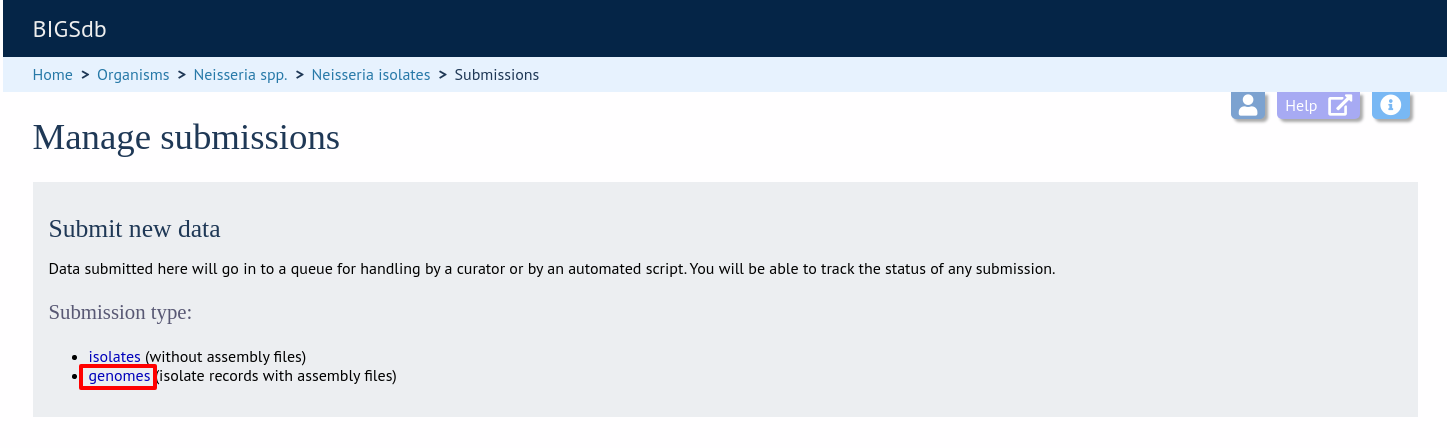
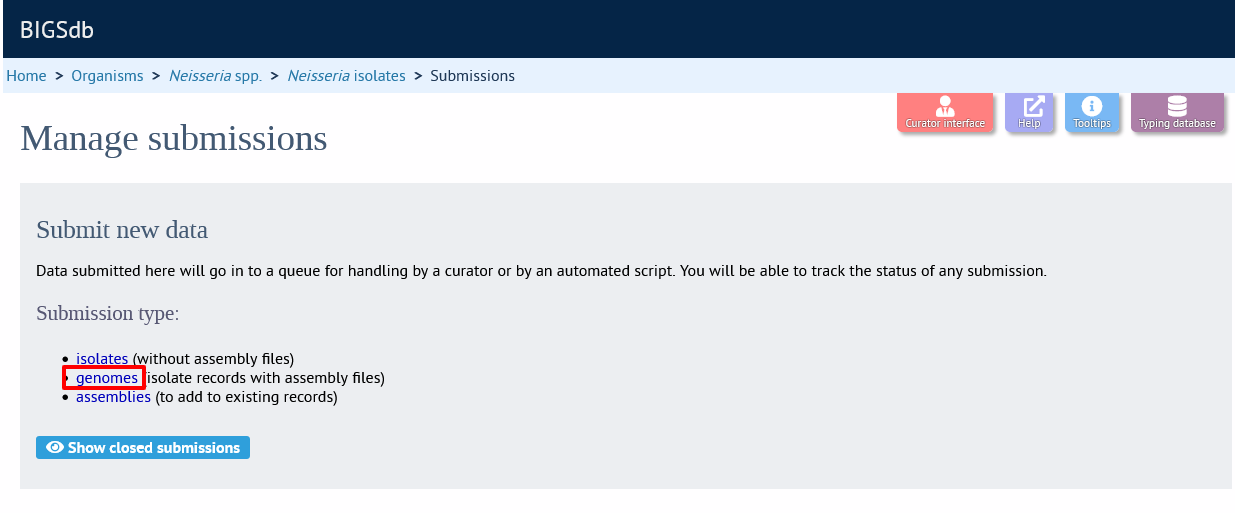
Assembly submissions.

diff --git a/submissions.rst b/submissions.rst
@@ -341,7 +341,8 @@ submission management page.
 .. image:: /images/submissions/submission36.png
 
 Then follow the steps for :ref:`isolate submission<isolate_submissions>`, 
-uploading the contig files as supporting files.
+uploading the contig files as supporting files. You will be able to finalize
+the submission only after all the assembly files have been uploaded.
 
 .. note::
  
@@ -353,6 +354,60 @@ uploading the contig files as supporting files.
    submission template. See 
    https://www.techadvisor.co.uk/how-to/windows/windows-10-file-extensions-3697651
    to see how to display hidden file extensions in Windows 10.
+   
+*******************
+Assembly submission
+*******************
+Genome assemblies can be submitted to add to existing isolate records. These
+are often old records that have been submitted with just MLST results but whole
+genome sequencing has been performed later. 
+
+Start
+=====
+Click the 'assemblies' link under submission type on the submission management
+page.
+
+.. image:: /images/submissions/submission37.png
+
+Link assembly files to isolate records
+======================================
+You need to tell the system which isolate record should be linked to each 
+assembly that is being uploaded. In order to do this you should prepare a
+spreadsheet consisting of four columns that you then copy and paste into the
+web form. The columns are:
+
+ * database id number
+ * isolate name
+ * sequence method
+ * assembly filename
+ 
+Both the database id and isolate name are used so that they can be 
+cross-checked to ensure that the correct isolate record has been selected.
+
+.. image:: /images/submissions/submission38.png
+
+Click 'Submit' and the system will check that the id and isolate names 
+correspond tp isolate records that do not currently have assemblies. Provided
+these match, you will then be prompted to drag-and-drop your genome assemblies
+on to the web form. A check will also be performed to see if you are the 
+original submitter of the isolate. If you are not, you can still make the 
+submission but should add a message to the curator to confirm why you are 
+adding assemblies for these records.
+
+.. image:: /images/submissions/submission39.png
+
+Files are uploaded as you drag-and-drop them. Basic checks wil be performed for
+sequence length, number of contigs, and N50 values. If values are outside the
+preferred range you will see a warning for a specific value shown with a pink 
+background. If values are outside the allowed range than the validation will
+fail and you will need to abort the submission. In the image below, the N50 
+values have a warning but have not failed the validation.
+
+.. image:: /images/submissions/submission40.png
+
+Once the files have been uploaded and passed validation, add any message to the
+curator if necessary, e.g. if the original isolate submissions were made by 
+someone else. Click 'Finalize submission'.
 
 ************************************************
 Removing submissions from your notification list
